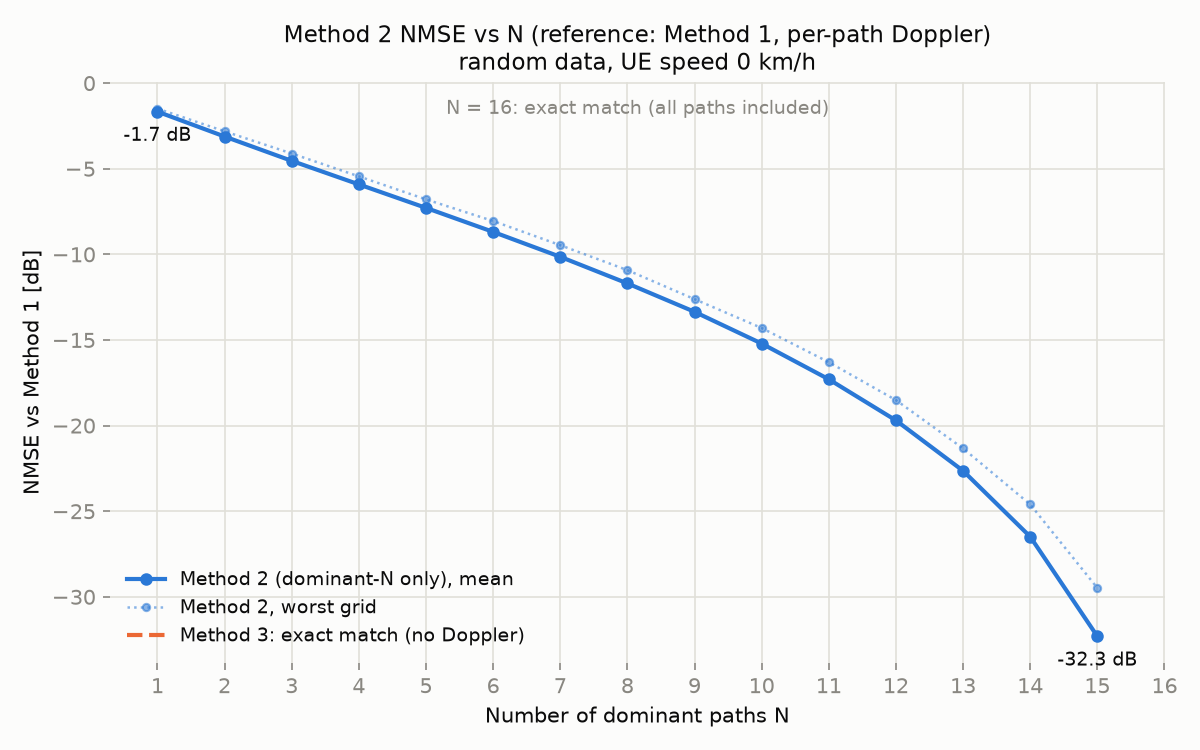
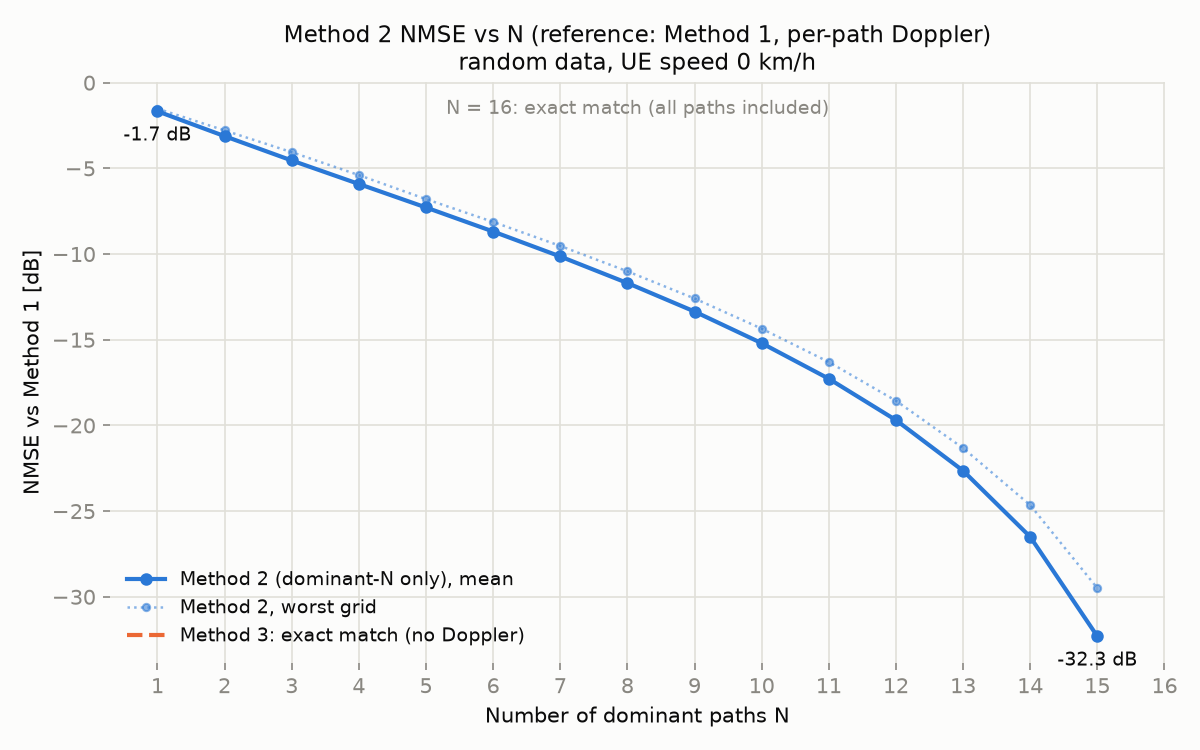
docs: RSRP-perspective section, symbol-sweep results, option/mode docs
RESULTS.md: tables 1-2 regenerated at SCS 30 kHz (run 34924158058); new
section 3 with per-symbol NMSE and RSRP error (wideband / SSB band) for
methods 2/3 incl. renormalized method 2, plots, interpretation and the
RSRP-side conclusion; reproduction commands. README/USAGE: new options
(--time-symbols, --scs-khz, --renorm-dominant, --rsrp-band-sc,
--symbol-list), metric definitions, CSV columns, CI steps, test list.

diff --git a/README.md b/README.md
@@ -53,6 +53,7 @@ PoC_Channel/
 │  └─ raytracing.py           #   구조체 정의 + random/geometric 생성 + 저장/로드
 ├─ generate_raytracing.py     # [Python] 실행 스크립트
 ├─ plot_sweep.py              # [Python] N sweep 곡선 그림
+├─ plot_symbol_sweep.py       # [Python] 심볼 index sweep 곡선 (NMSE + RSRP 오차)
 ├─ summarize_los_split.py     # [Python] sweep 결과를 LOS/NLOS grid로 나눈 표
 ├─ test_raytracing.py         # [Python] binary 파일 검증 테스트 (2 시나리오 x 2 모드)
 ├─ src/                       # [C++] Doppler PoC
@@ -228,8 +229,8 @@ geometric 전용 (좌표 [m]):
 이동 방향·속도를 갖는 단말 하나가 각 grid에 위치할 때, 해당 grid의 채널에
 Doppler 효과를 적용해 **주파수 도메인 채널 행렬 H (64 × 4 × 3276)** 를 생성한다.
 
-- OFDM: center frequency 3.5 GHz, SCS 15 kHz, subcarrier 3276개
-- 단말 이동성: 속도(km/h)·방향(azimuth, 도)·snapshot 시각 t 설정 가능
+- OFDM: center frequency 3.5 GHz, SCS 30 kHz(3276 SC = 273 RB, 100 MHz), T_sym ≈ 35.7 µs
+- 단말 이동성: 속도(km/h)·방향(azimuth, 도)·snapshot 시각 t(ms 또는 OFDM 심볼 수) 설정 가능
 
 ## 세 가지 방식
 
@@ -250,7 +251,15 @@ subcarrier 주파수: `f_k = (k − N_SC/2)·SCS` (baseband, 센터 기준)
 방식 3을 위해 기지국 위치(기본 원점)와 grid 배치(기본 10×10, 간격 10 m,
 원점 (50, −45))를 `sim::Params`로 정의한다.
 
-비교 지표는 방식 1 대비 NMSE: `‖H_x − H₁‖² / ‖H₁‖²` (grid별 + 평균/최대, dB).
+비교 지표 두 가지 (모두 방식 1 기준):
+
+| 지표 | 정의 | 의미 |
+|---|---|---|
+| **NMSE** | `‖H_x − H₁‖² / ‖H₁‖²` (grid별, dB) | 위상까지 포함한 채널 오차. 복조·프리코딩 관점 |
+| **RSRP 오차** | (bs, ue) pair마다 subcarrier 평균 `|H|²`를 RSRP로 보고 `|10·log10(RSRP_x / RSRP₁)|`의 pair 평균/최대 [dB] | 전력만 보는 오차. 전대역(3276 SC)과 협대역(대역 중앙 `--rsrp-band-sc`개, 기본 240 = SSB 20 RB) 두 가지 |
+
+방식 2에는 `--renorm-dominant` 옵션이 있어 포함한 dominant path의 전력 합을 1로
+재정규화할 수 있다 (버린 path 전력만큼의 RSRP bias 제거용; NMSE 비교의 기본값은 off).
 
 ## 빌드 및 실행
 
@@ -268,17 +277,24 @@ cmake --build build -j
     --speed-kmh 60 --direction-deg 45 --time-ms 1 --num-dominant 3
 ```
 
-옵션: `--speed-kmh`(기본 60) `--direction-deg`(기본 45) `--time-ms`(기본 1)
-`--num-dominant`(기본 3) `--out-csv`(기본 doppler_comparison.csv)
-`--sweep-max <n>`(N=1..n sweep 모드, 요약 `nmse_sweep.csv` + grid별 `nmse_sweep_grid.csv`
-출력(`--out-csv`로 이름 지정 가능) → `python plot_sweep.py [csv] [png] [부제목]`으로 곡선
-생성, `python summarize_los_split.py <grid csv> <config.json>`으로 LOS/NLOS grid 분리 표 생성)
+옵션: `--speed-kmh`(기본 60) `--direction-deg`(기본 45) `--time-ms`(기본 1) 또는
+`--time-symbols <k>`(t = k·T_sym) `--scs-khz`(기본 30) `--num-dominant`(기본 3)
+`--renorm-dominant` `--rsrp-band-sc`(기본 240) `--out-csv`(기본 doppler_comparison.csv)
+
+세 가지 실행 모드:
+- 기본: 단일 t에서 grid별 NMSE + RSRP 오차 → `doppler_comparison.csv`
+- `--sweep-max <n>`: N=1..n sweep, 요약 `nmse_sweep.csv` + grid별 `nmse_sweep_grid.csv`
+  → `python plot_sweep.py [csv] [png] [부제목]` 곡선, `python summarize_los_split.py <grid csv> <config.json>` LOS/NLOS 분리 표
+- `--symbol-list <a,b,..>`: 심볼 index마다 t = k·T_sym로 방식 2/3의 NMSE·RSRP 오차 시간 진행
+  → `symbol_sweep.csv`, `python plot_symbol_sweep.py [csv] [png] [부제목]` 두 패널 곡선
 
 결과는 콘솔 요약(처음 10개 grid + 평균/최대)과 grid별 CSV로 출력된다.
 **전체 실행 방법은 [docs/USAGE.md](docs/USAGE.md) 참조** (CI 실행·artifact 다운로드 포함).
-**비교 결과와 해석은 [docs/RESULTS.md](docs/RESULTS.md) 참조** — 결론: 방식 3은
-오차가 심볼 index에 비례해 누적되고 페이딩을 재현하지 못해 정지 채널 외에는 부적합,
-방식 2(dominant N ≥ 3)는 t·속도·LOS 여부에 무관하게 예측 가능.
+**비교 결과와 해석은 [docs/RESULTS.md](docs/RESULTS.md) 참조** — 결론: 위상까지 보는
+NMSE 기준으로 방식 3은 오차가 심볼 index에 비례해 누적되고 페이딩을 재현하지 못해 정지
+채널 외에는 부적합, 방식 2(dominant N ≥ 3)는 t·속도·LOS 여부에 무관하게 예측 가능.
+전력만 보는 RSRP 기준으로는 방식 3의 전대역 오차가 10 ms 뒤에도 0.7 dB로 작아 평균
+전력 용도에는 충분하며, 방식 2는 버린 path만큼의 고정 bias(재정규화로 제거 가능)를 갖는다.
 
 ## CI (GitHub Actions)
 
@@ -288,6 +304,7 @@ C++ 단위 테스트(Python이 만든 binary를 C++ 로더로 읽는 cross-langu
 geometric LOS AoA 규약 일치 검증 포함) → PoC 실행(random `doppler_comparison.csv`,
 geometric `doppler_comparison_geo.csv`) → 속도 0/60/120 km/h N sweep 및 곡선
 생성(random `nmse_sweep_v*.csv/png`, geometric `nmse_sweep_geo_v*.csv/png`) →
+geometric 심볼 sweep(60/120 km/h + 재정규화 1회, `symbol_sweep_geo_*.csv/png`) →
 geometric LOS/NLOS 분리 표(`los_split_geo_v*.md`) → 결과 전체를 `doppler-results`
 artifact로 업로드.
 
@@ -299,6 +316,9 @@ artifact로 업로드.
 - LOS 단일 path이면 방식 3 == 방식 1
 - LOS 각도가 grid→기지국 방향(도래각 규약)
 - t = 0이면 세 방식 모두 동일
+- RSRP 오차: 같은 채널 0 dB, 전력 2배 3.01 dB, 협대역 창이 대역 중앙, 방식 3의 |H|는 t 무관
+- 방식 2 재정규화 후 전대역 RSRP 오차 ≈ 0 (재정규화 전에는 버린 전력만큼)
+- 30 kHz SCS 심볼 길이 = 35.7 µs
 - 로더: Python이 생성한 binary의 mode/안테나 수/grid 수/전력 합 검증
 - geometric binary의 LOS AoA가 C++ `los_angle_deg`와 일치 (Python/C++ 규약 동일)
 
